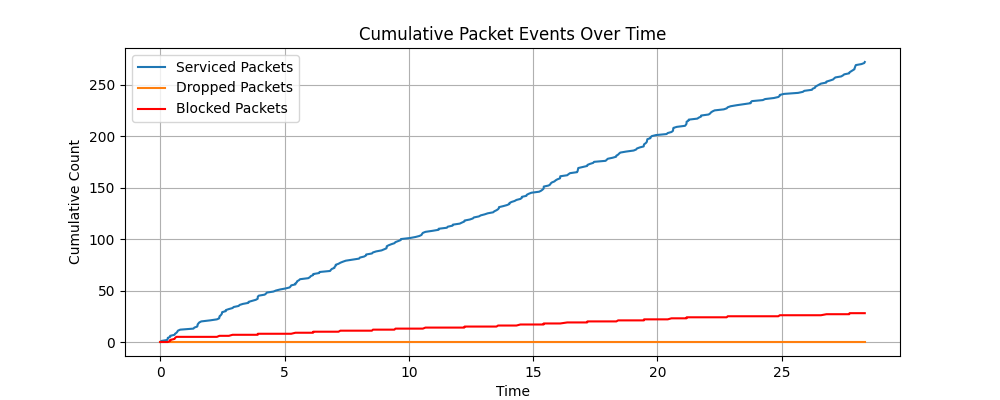
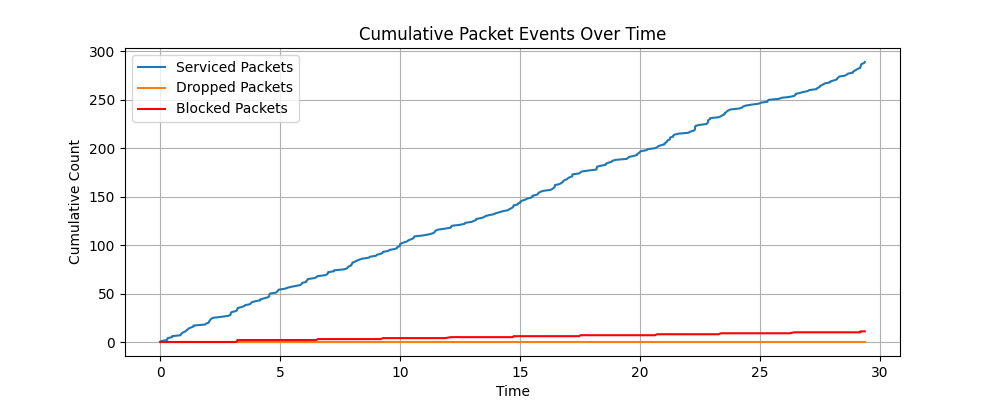
Update MM1 simulator to support TCP CUBIC; enhance visualization with new state colors and update related result images.

diff --git a/mm1.py b/mm1.py
@@ -550,7 +550,13 @@ class Simulator():
                 end_time = times[i + 1]
 
                 ax.axvspan(start_time, end_time, alpha=0.2,
-                        color={'Slow Start': 'blue', 'Additive Increase': 'yellow', 'Multiplicative Decrease': 'red'}.get(state, 'gray'),
+                        color={
+                            'Slow Start': 'blue', 
+                            'Additive Increase': 'yellow', 
+                            'Multiplicative Decrease': 'red',
+                            'Cubic Increase': 'yellow',
+                            'Cubic Loss': 'red'
+                        }.get(state, 'gray'),
                         label=state if state not in ax.get_legend_handles_labels()[1] else "")
 
             plt.xlabel('Time')
@@ -574,7 +580,7 @@ def main():
     queue_size = 4 
     is_exp_drop = False
 
-    tcp_cc = 'reno'
+    tcp_cc = 'cubic'
     
     # init simulator
     sim = Simulator(lmbda=lmbda, mu=mu, theta=theta, size=queue_size, is_exp_drop=is_exp_drop, tcp_cc=tcp_cc)
